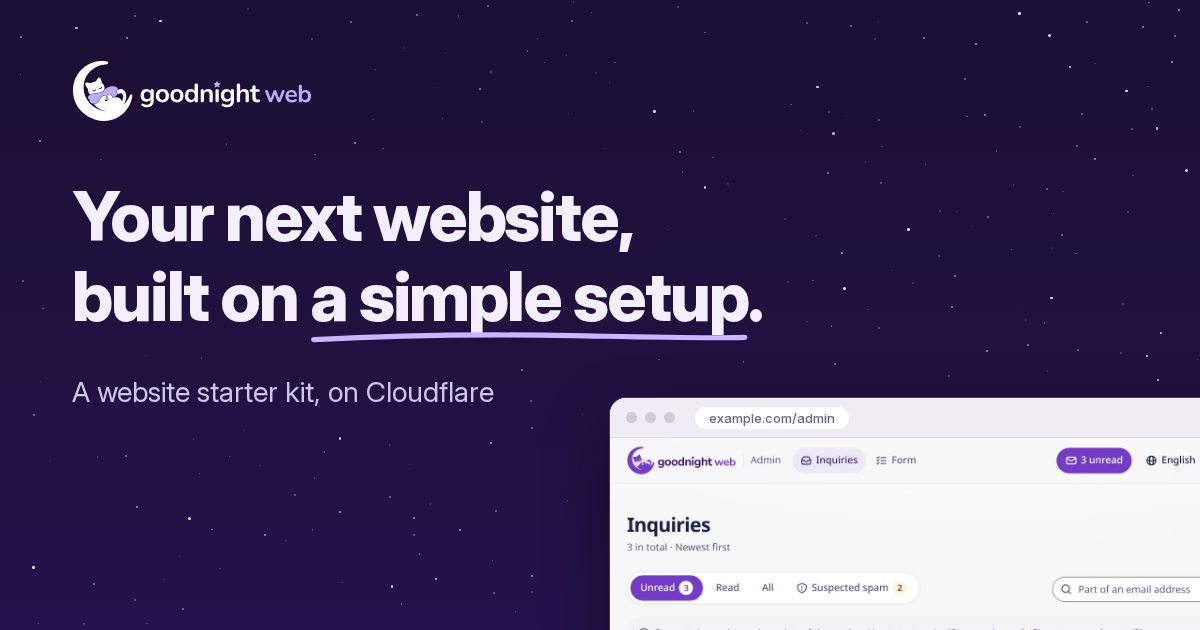
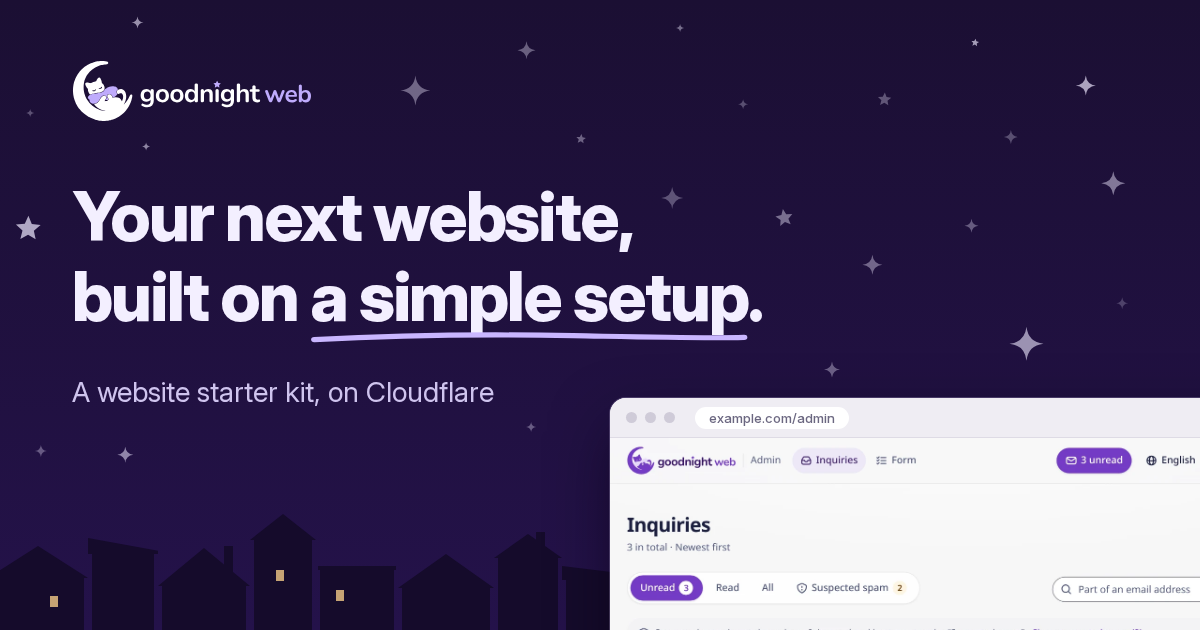
feat(docs): draw star marks and a row of houses in the share images

diff --git a/apps/docs/scripts/og/generate.ts b/apps/docs/scripts/og/generate.ts
@@ -30,11 +30,63 @@ function titleLine(line: string, highlight: string): string {
   return `${escapeHtml(line.slice(0, start))}<em>${escapeHtml(highlight)}<svg viewBox="0 0 300 12" preserveAspectRatio="none" aria-hidden="true"><path d="M3 8.5C60 4.5 120 3.5 180 5s90 2.5 117 1.5" fill="none" stroke="currentColor" stroke-width="4.5" stroke-linecap="round"/></svg></em>${escapeHtml(line.slice(start + highlight.length))}`;
 }
 
+type House = {
+  x: number;
+  width: number;
+  wall: number;
+  roof: 'gable' | 'shed' | 'flat';
+  rise: number;
+  /** Lit windows, as [dx, dy] from the wall's top-left corner. */
+  lit?: [number, number][];
+  chimney?: boolean;
+};
+
+const houses: House[] = [
+  { x: -8, width: 92, wall: 52, roof: 'gable', rise: 32, lit: [[58, 18]] },
+  { x: 92, width: 62, wall: 76, roof: 'shed', rise: 16 },
+  { x: 162, width: 84, wall: 44, roof: 'gable', rise: 38, chimney: true },
+  { x: 254, width: 58, wall: 90, roof: 'gable', rise: 26, lit: [[22, 30]] },
+  { x: 320, width: 74, wall: 60, roof: 'flat', rise: 0, lit: [[16, 20]] },
+  { x: 402, width: 88, wall: 42, roof: 'gable', rise: 34 },
+  { x: 498, width: 60, wall: 72, roof: 'gable', rise: 24, chimney: true },
+  { x: 566, width: 84, wall: 50, roof: 'shed', rise: 14, lit: [[50, 18]] },
+];
+
+/** A row of flat house silhouettes along the bottom edge, one fixed layout. */
+function town(): string {
+  const base = 630;
+  const shapes = houses.map((house) => {
+    const top = base - house.wall;
+    const left = house.x;
+    const right = house.x + house.width;
+    const middle = house.x + house.width / 2;
+    const overhang = 4;
+    const roof =
+      house.roof === 'gable'
+        ? `<polygon points="${left - overhang},${top} ${middle},${top - house.rise} ${right + overhang},${top}"/>`
+        : house.roof === 'shed'
+          ? `<polygon points="${left - overhang},${top} ${left - overhang},${top - house.rise} ${right + overhang},${top - house.rise * 0.2} ${right + overhang},${top}"/>`
+          : `<rect x="${left - 2}" y="${top - 4}" width="${house.width + 4}" height="4"/>`;
+    const chimney = house.chimney
+      ? `<rect x="${right - 22}" y="${top - house.rise - 2}" width="9" height="${house.rise + 2}"/>`
+      : '';
+    const windows = (house.lit ?? [])
+      .map(
+        ([dx, dy]) =>
+          `<rect x="${left + dx}" y="${top + dy}" width="8" height="11" fill="#f2c987" opacity="0.8"/>`,
+      )
+      .join('');
+    return `<g><rect x="${left}" y="${top}" width="${house.width}" height="${house.wall}"/>${roof}${chimney}${windows}</g>`;
+  });
+  return `<svg class="town" width="660" height="140" viewBox="0 490 660 140" fill="#150b2b">${shapes.join('')}</svg>`;
+}
+
 /**
- * Scatters stars over the sky, in the page. A seeded generator (`seed`) picks
- * the positions, so a run always draws the same sky, and stars keep clear of
- * the logo, the text, and the screenshot. Most are small and faint, some are
- * a little larger, and a few are brighter.
+ * Scatters star marks over the sky, in the page. Most are four-point sparkles
+ * with concave sides, a few are five-point stars. A seeded generator (`seed`)
+ * picks sizes, positions, and opacity, so a run always draws the same sky.
+ * Each star keeps clear of the logo, the text, the screenshot, and the other
+ * stars, counting its own size.
  */
 function scatterStars(seed: number) {
   let state = seed * 2654435761;
@@ -44,9 +96,9 @@ function scatterStars(seed: number) {
     t = (t + Math.imul(t ^ (t >>> 7), 61 | t)) ^ t;
     return ((t ^ (t >>> 14)) >>> 0) / 4294967296;
   };
-  const clear = 16;
+  const clear = 20;
   const boxes: DOMRect[] = [];
-  for (const selector of ['.logo', '.window']) {
+  for (const selector of ['.logo', '.window', '.town']) {
     const el = document.querySelector(selector);
     if (el) boxes.push(el.getBoundingClientRect());
   }
@@ -56,34 +108,53 @@ function scatterStars(seed: number) {
     range.selectNodeContents(el);
     boxes.push(range.getBoundingClientRect());
   }
+  // A unit star has a radius of 1 around the origin.
+  const sparkle = 'M0-1Q.1-.1 1 0Q.1.1 0 1Q-.1.1-1 0Q-.1-.1 0-1Z';
+  const five = Array.from({ length: 10 }, (_, i) => {
+    const r = i % 2 === 0 ? 1 : 0.46;
+    const angle = (Math.PI / 5) * i - Math.PI / 2;
+    return `${(Math.cos(angle) * r).toFixed(3)},${(Math.sin(angle) * r).toFixed(3)}`;
+  }).join(' ');
+  // Diameters in pixels, largest first so they get the room they need.
+  const sizes = [
+    34, 30, 26, 24, 22, 20, 20, 18, 18, 16, 16, 14, 14, 14, 12, 12, 12, 10, 10,
+    10, 8, 8, 8, 8,
+  ];
+  const placed: { x: number; y: number; r: number }[] = [];
+  let marks = '';
+  sizes.forEach((size, index) => {
+    const r = size / 2;
+    for (let attempt = 0; attempt < 300; attempt++) {
+      const x = random() * 1200;
+      const y = random() * 630;
+      const blocked =
+        x < r + 12 ||
+        x > 1200 - r - 12 ||
+        y < r + 12 ||
+        y > 630 - r - 12 ||
+        boxes.some(
+          (b) =>
+            x > b.left - clear - r &&
+            x < b.right + clear + r &&
+            y > b.top - clear - r &&
+            y < b.bottom + clear + r,
+        ) ||
+        placed.some((o) => Math.hypot(o.x - x, o.y - y) < o.r + r + 70);
+      if (blocked) continue;
+      placed.push({ x, y, r });
+      const opacity = (0.22 + random() * 0.5).toFixed(2);
+      // Every fifth star, from the third, has five points.
+      const shape =
+        index % 5 === 2
+          ? `<polygon points="${five}" transform="rotate(${Math.round(random() * 24 - 12)})"/>`
+          : `<path d="${sparkle}"/>`;
+      marks += `<g transform="translate(${x.toFixed(1)} ${y.toFixed(1)}) scale(${r})" opacity="${opacity}">${shape}</g>`;
+      return;
+    }
+  });
   const sky = document.getElementById('sky');
-  const placed: [number, number][] = [];
-  for (let n = 0; n < 420; n++) {
-    const x = random() * 1200;
-    const y = random() * 630;
-    const roll = random();
-    const size = roll < 0.6 ? 1.5 : roll < 0.88 ? 2 : roll < 0.965 ? 2.6 : 3.2;
-    const opacity =
-      size === 1.5
-        ? 0.14 + random() * 0.3
-        : size === 2
-          ? 0.4 + random() * 0.3
-          : 0.75 + random() * 0.25;
-    const blocked =
-      boxes.some(
-        (b) =>
-          x > b.left - clear &&
-          x < b.right + clear &&
-          y > b.top - clear &&
-          y < b.bottom + clear,
-      ) || placed.some(([px, py]) => Math.hypot(px - x, py - y) < 16);
-    if (blocked) continue;
-    placed.push([x, y]);
-    const star = document.createElement('i');
-    star.className = 'star';
-    star.style.cssText = `left:${x.toFixed(1)}px;top:${y.toFixed(1)}px;width:${size}px;height:${size}px;opacity:${opacity.toFixed(2)}`;
-    sky?.append(star);
-  }
+  if (sky)
+    sky.innerHTML = `<svg width="1200" height="630" viewBox="0 0 1200 630" fill="#efe9ff">${marks}</svg>`;
 }
 
 async function page(copy: OgCopy): Promise<string> {
@@ -110,7 +181,8 @@ body {
   color: #f3efff;
   background: linear-gradient(180deg, #1b0f33, #24124a);
 }
-.star { position: absolute; border-radius: 50%; background: #efe9ff; }
+#sky { position: absolute; left: 0; top: 0; }
+.town { position: absolute; left: 0; top: 490px; }
 .logo { position: absolute; left: 72px; top: 60px; height: 62px; }
 .copy { position: absolute; left: 72px; top: 176px; }
 h1 { font-size: ${ja ? 64 : 68}px; font-weight: ${ja ? 700 : 800}; line-height: ${ja ? 1.3 : 1.18}; letter-spacing: ${ja ? '-0.01em' : '-0.03em'}; }
@@ -131,6 +203,7 @@ p span { display: block; }
 </style>
 <body>
 <div id="sky"></div>
+${town()}
 <img class="logo" src="${logo}" alt="">
 <div class="copy">
   <h1>${copy.title.map((line) => `<span>${titleLine(line, copy.highlight)}</span>`).join('')}</h1>

diff --git a/apps/docs/scripts/og/README.md b/apps/docs/scripts/og/README.md
@@ -8,8 +8,10 @@
 The title and highlight come from the `hero` block of
 `src/content/docs/ja/index.mdx` and `src/content/docs/index.mdx`. The sub line
 under the title (where the kit runs) is written in `copy.ts`, because it
-differs from the page eyebrow. The stars are drawn from a seeded generator and
-keep clear of the text, logo, and screenshot, so a run always gives the same sky. The logo is
+differs from the page eyebrow. The sky has a few star marks (four-point sparkles and some five-point stars)
+drawn from a seeded generator, and a row of house silhouettes along the bottom
+edge. Stars keep clear of the text, logo, screenshot, and houses, so a run always
+gives the same image. The logo is
 `brand/goodnight-web-lockup-dark.svg`, and the screenshot is the inquiry list
 in `public/images/admin/`. Run `bun run og` and commit the PNGs whenever the
 hero copy, the logo, or that screenshot changes. The alt text and file names
